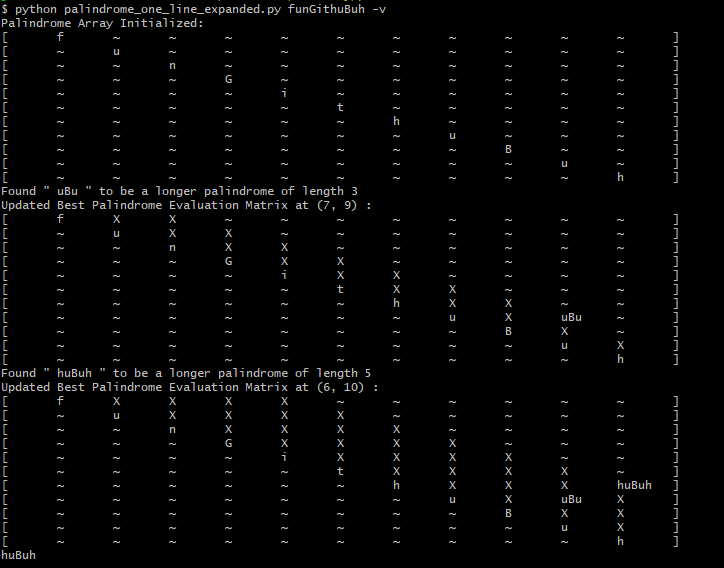
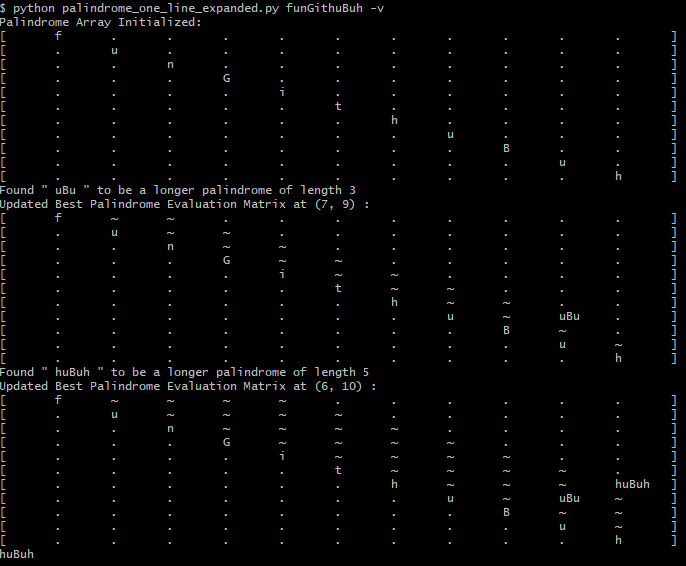
Changed formatting of palindrome matrix printing

diff --git a/palindrome_one_line_expanded.py b/palindrome_one_line_expanded.py
@@ -55,9 +55,9 @@ def print_mat(m, s):
 				palin_substr = s[row:col + 1]
 				row_str += palin_substr + '\t' if col != len(m[0]) - 1 else palin_substr + '\t]'
 			elif is_palin is None:
-				row_str += '~\t' if col != len(m[0]) - 1 else '~\t]'
+				row_str += '.\t' if col != len(m[0]) - 1 else '.\t]'
 			elif is_palin is False:
-				row_str += 'X\t' if col != len(m[0]) - 1 else 'X\t]'
+				row_str += '~\t' if col != len(m[0]) - 1 else '~\t]'
 		print(row_str)
 
 if __name__ == '__main__':
